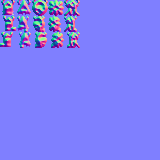
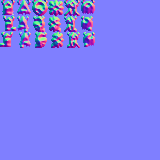
Add fire ship & immunities to effects
I want to put these as upgrades behind some kind of score system. Yes they are a bit overpowered on single element levels, but it could allow me to make some more difficult levels which would still be hard even with immunity to a certain type.

Changed region(s): [[0.5, 0.0, 0.5938, 0.3125]]

diff --git a/src/scenes/menus/SelectShip.ts b/src/scenes/menus/SelectShip.ts
@@ -1,8 +1,8 @@
-import { SCENES, FONTS, SHEETS } from "../../constants";
+import { SCENES, SHEETS } from "../../constants";
 
 import BaseUIDiv from "../BaseUIDiv";
 
-import { ships } from "../../objects/Ship";
+import { ships, validShipTypes, shipTypeArray } from "../../objects/Ship";
 
 import PauseScene from "./Pause";
 
@@ -21,13 +21,9 @@ export default class ShipSelect extends Phaser.Scene {
     super(SCENES.ShipSelect);
   }
 
-  preload() {
-    // this.cameras.main.setBackgroundColor("#87ceeb");
-  }
+  preload() {}
 
-  init() {
-    // this.cameras.main.setBackgroundColor(0xbf87ceeb);
-  }
+  init() {}
 
   create() {
     // const transitionManager = new TransitionManager(this);
@@ -36,10 +32,6 @@ export default class ShipSelect extends Phaser.Scene {
     if (typeof gameWidth === "string") gameWidth = parseInt(gameWidth);
     let gameHeight = this.sys.game.config.height;
     if (typeof gameHeight === "string") gameHeight = parseInt(gameHeight);
-
-    this.add.bitmapText(5, 15, FONTS.VCR_WHITE, "SHIP SELECT", 21);
-
-    // console.log(ships);
 
     const ShipSelectUI = new BaseUIDiv("ship-select-ui").getDiv();
     ShipSelectUI.style.cssText += `
@@ -82,9 +74,7 @@ export default class ShipSelect extends Phaser.Scene {
     `;
     ShipSelectUI.insertAdjacentElement("beforeend", ShipsDiv);
 
-    const setNewShip = (
-      shiptype: "base" | "vanu" | "orb" | "snowflake" | "lightning"
-    ) => {
+    const setNewShip = (shiptype: validShipTypes) => {
       const pausedSceneKey = (
         this.scene.manager.getScene(SCENES.PauseScene) as PauseScene
       ).getPausedSceneKey();
@@ -100,29 +90,18 @@ export default class ShipSelect extends Phaser.Scene {
       this.registry.set("shipType", shiptype);
     };
 
-    // So much for using the ship list we exported from Ships.ts...
-    // for now this works fine...
-    const shipTypes: ("base" | "vanu" | "orb" | "snowflake" | "lightning")[] = [
-      "base",
-      "vanu",
-      "orb",
-      "snowflake",
-      "lightning",
-    ];
-    shipTypes.reverse();
-
-    const shipSelectBtns = document.createElement("div");
-    shipSelectBtns.style.cssText = `
+    const shipSelectBtnDiv = document.createElement("div");
+    shipSelectBtnDiv.style.cssText = `
       display: flex;
       justify-content: center;
-      flex-direction: column;
+      flex-direction: column-reverse;
     `;
-    ShipSelectUI.insertAdjacentElement("afterbegin", shipSelectBtns);
+    ShipSelectUI.insertAdjacentElement("afterbegin", shipSelectBtnDiv);
 
     const renderShipBtns = () => {
-      shipSelectBtns.innerHTML = "";
+      shipSelectBtnDiv.innerHTML = "";
 
-      shipTypes.forEach((shipType) => {
+      shipTypeArray.forEach((shipType) => {
         const btn = document.createElement("button");
         btn.innerText = shipType;
         btn.innerText =
@@ -135,7 +114,8 @@ export default class ShipSelect extends Phaser.Scene {
           position: relative;
           flex: 1;
         `;
-        shipSelectBtns.insertAdjacentElement("afterbegin", btn);
+        shipSelectBtnDiv.insertAdjacentElement("afterbegin", btn);
+
         const spriteImg = SpriteToImg(
           this,
           SHEETS.ships,
@@ -182,15 +162,11 @@ export default class ShipSelect extends Phaser.Scene {
       setTimeout(() => {
         BaseUIDiv.getInstance(ShipSelectUI)?.customRemove();
         this.scene.stop();
-        // this.scene.setVisible(true, SCENES.PauseScene);
-        // this.scene.setVisible(true, SCENES.LevelSelect);
         this.scene.resume(SCENES.LevelSelect);
       }, 150);
     };
     ShipSelectUI.insertAdjacentElement("beforeend", resumeBtn);
 
-    // this.scene.setVisible(false, SCENES.LevelSelect);
-    // this.scene.setVisible(false, SCENES.PauseScene);
     this.scene.bringToTop(this);
   }
 

diff --git a/src/scenes/BaseScene.ts b/src/scenes/BaseScene.ts
@@ -380,35 +380,46 @@ export default class BaseScene extends Phaser.Scene {
         }
         switch ((projectile as iProjectile).type) {
           case "fireball":
-            if (this.lives >= 1) {
-              this.deleteHeartSprite();
+            if (this.registry.get("shipType") !== "fireball") {
+              if (this.lives >= 1) {
+                this.deleteHeartSprite();
 
-              this.cameras.main.shake(250, 0.01);
-              this.sound.play(AUDIO.HURT);
+                this.cameras.main.shake(250, 0.01);
+                this.sound.play(AUDIO.HURT);
 
-              this.lives--;
+                this.lives--;
+              }
             }
+
             projectile.destroy();
             break;
           case "lightningbolt":
-            this.playerStatus.isStunned = true;
-            this.playerStatus.lastStunned = this.time.now;
-            myPlayer.setFrame(20);
+            if (this.registry.get("shipType") !== "lightning") {
+              this.playerStatus.isStunned = true;
+              this.playerStatus.lastStunned = this.time.now;
+              myPlayer.setFrame(20);
+            }
             projectile.destroy();
             break;
           case "laserbeam":
+            if (this.registry.get("shipType") !== "vanu") {
+              this.scene.restart();
+            }
             projectile.destroy();
-            this.scene.restart();
+
             break;
           case "icespike":
-            if (this.lives >= 1) {
-              this.deleteHeartSprite();
+            if (this.registry.get("shipType") !== "snowflake") {
+              if (this.lives >= 1) {
+                this.deleteHeartSprite();
 
-              this.cameras.main.shake(250, 0.01);
-              this.sound.play(AUDIO.HURT);
+                this.cameras.main.shake(250, 0.01);
+                this.sound.play(AUDIO.HURT);
 
-              this.lives--;
+                this.lives--;
+              }
             }
+
             projectile.destroy();
             break;
           default:

diff --git a/src/objects/Ship.ts b/src/objects/Ship.ts
@@ -6,7 +6,25 @@ export const ships = {
   orb: { stopped: 2, left: 12, right: 22 },
   snowflake: { stopped: 3, left: 13, right: 23 },
   lightning: { stopped: 4, left: 14, right: 24 },
+  fireball: { stopped: 5, left: 15, right: 25 },
 };
+
+export type validShipTypes =
+  | "base"
+  | "vanu"
+  | "orb"
+  | "snowflake"
+  | "lightning"
+  | "fireball";
+
+export const shipTypeArray = [
+  "base",
+  "vanu",
+  "orb",
+  "snowflake",
+  "lightning",
+  "fireball",
+] as const;
 
 // This ship sprite (non physics) "attaches" to the
 // platform by matching its x position in preUpdate(){}
@@ -18,7 +36,7 @@ export default class Ship extends Phaser.GameObjects.Sprite {
   shipFrames: { stopped: number; left: number; right: number } =
     this.ships.base;
 
-  setShipType(type: "base" | "vanu" | "orb" | "snowflake" | "lightning") {
+  setShipType(type: validShipTypes) {
     this.shipFrames = this.ships[type];
   }
 
